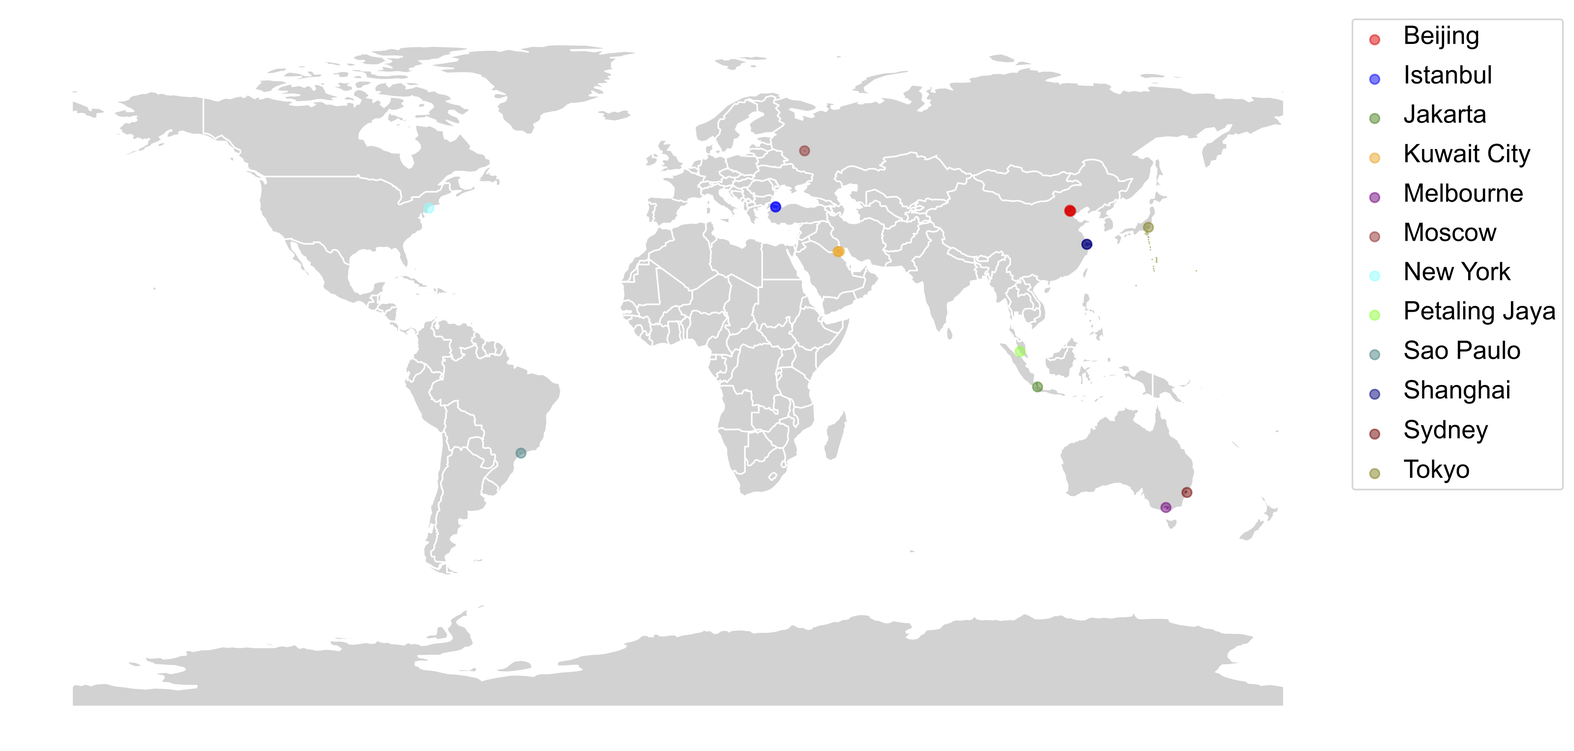
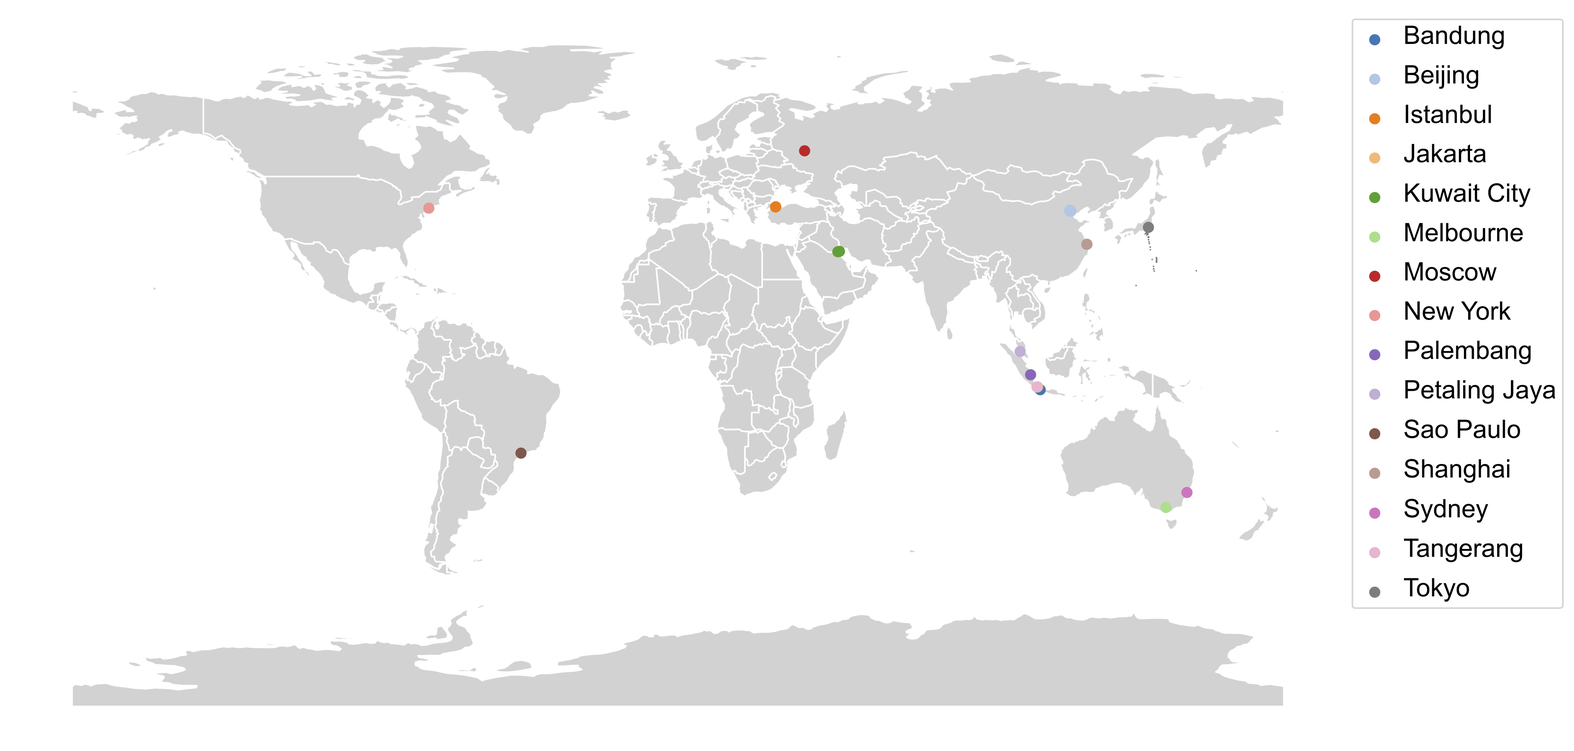
Added 3 Indonesian cities and UniMove baseline

diff --git a/README.md b/README.md
@@ -16,7 +16,7 @@
 
 ![Massive-STEPS](assets/world_map.png)
 
-**Massive-STEPS** is a large-scale dataset of semantic trajectories intended for understanding POI check-ins. The dataset is derived from the [Semantic Trails Dataset](https://github.com/D2KLab/semantic-trails) and [Foursquare Open Source Places](https://huggingface.co/datasets/foursquare/fsq-os-places), and includes check-in data from 12 cities across 10 countries. The dataset is designed to facilitate research in various domains, including trajectory prediction, POI recommendation, and urban modeling. Massive-STEPS emphasizes the importance of geographical diversity, scale, semantic richness, and reproducibility in trajectory datasets.
+**Massive-STEPS** is a large-scale dataset of semantic trajectories intended for understanding POI check-ins. The dataset is derived from the [Semantic Trails Dataset](https://github.com/D2KLab/semantic-trails) and [Foursquare Open Source Places](https://huggingface.co/datasets/foursquare/fsq-os-places), and includes check-in data from 15 cities across 10 countries. The dataset is designed to facilitate research in various domains, including trajectory prediction, POI recommendation, and urban modeling. Massive-STEPS emphasizes the importance of geographical diversity, scale, semantic richness, and reproducibility in trajectory datasets.
 
 ## 🔢 Dataset
 
@@ -24,20 +24,23 @@
 
 Massive-STEPS is available on [🤗 Datasets](https://huggingface.co/collections/CRUISEResearchGroup/massive-steps-point-of-interest-check-in-dataset-682716f625d74c2569bc7a73). You can download the preprocessed dataset of each city using the following links:
 
-| City            | Users | Trails | POIs  | Check-ins | #train | #val  | #test |                                          URL                                          |
-| --------------- | :---: | :----: | :---: | :-------: | :----: | :---: | :---: | :-----------------------------------------------------------------------------------: |
-| Beijing 🇨🇳       |  56   |  573   | 1127  |   1470    |  400   |  58   |  115  |    [🤗](https://huggingface.co/datasets/CRUISEResearchGroup/Massive-STEPS-Beijing/)    |
-| Istanbul 🇹🇷      | 23700 | 216411 | 53812 |  544471   | 151487 | 21641 | 43283 |   [🤗](https://huggingface.co/datasets/CRUISEResearchGroup/Massive-STEPS-Istanbul/)    |
-| Jakarta 🇮🇩       | 8336  | 137396 | 76116 |  412100   | 96176  | 13740 | 27480 |    [🤗](https://huggingface.co/datasets/CRUISEResearchGroup/Massive-STEPS-Jakarta/)    |
-| Kuwait City 🇰🇼   | 9628  | 91658  | 17180 |  232706   | 64160  | 9166  | 18332 |  [🤗](https://huggingface.co/datasets/CRUISEResearchGroup/Massive-STEPS-Kuwait-City/)  |
-| Melbourne 🇦🇺     |  646  |  7864  | 7699  |   22050   |  5504  |  787  | 1573  |   [🤗](https://huggingface.co/datasets/CRUISEResearchGroup/Massive-STEPS-Melbourne/)   |
-| Moscow 🇷🇺        | 3993  | 39485  | 17822 |  105620   | 27639  | 3949  | 7897  |    [🤗](https://huggingface.co/datasets/CRUISEResearchGroup/Massive-STEPS-Moscow/)     |
-| New York 🇺🇸      | 6929  | 92041  | 49218 |  272368   | 64428  | 9204  | 18409 |   [🤗](https://huggingface.co/datasets/CRUISEResearchGroup/Massive-STEPS-New-York/)    |
-| Petaling Jaya 🇲🇾 | 14308 | 180410 | 60158 |  506430   | 126287 | 18041 | 36082 | [🤗](https://huggingface.co/datasets/CRUISEResearchGroup/Massive-STEPS-Petaling-Jaya/) |
-| São Paulo 🇧🇷     | 5822  | 89689  | 38377 |  256824   | 62782  | 8969  | 17938 |   [🤗](https://huggingface.co/datasets/CRUISEResearchGroup/Massive-STEPS-Sao-Paulo/)   |
-| Shanghai 🇨🇳      |  296  |  3636  | 4462  |   10491   |  2544  |  364  |  728  |   [🤗](https://huggingface.co/datasets/CRUISEResearchGroup/Massive-STEPS-Shanghai/)    |
-| Sydney 🇦🇺        |  740  | 10148  | 8986  |   29900   |  7103  | 1015  | 2030  |    [🤗](https://huggingface.co/datasets/CRUISEResearchGroup/Massive-STEPS-Sydney/)     |
-| Tokyo 🇯🇵         |  764  |  5482  | 4725  |   13839   |  3836  |  549  | 1097  |     [🤗](https://huggingface.co/datasets/CRUISEResearchGroup/Massive-STEPS-Tokyo/)     |
+| City            | Users | Trails |  POIs  | Check-ins | #train  |  #val  | #test  |                                          URL                                          |
+| --------------- | :---: | :----: | :----: | :-------: | :-----: | :----: | :----: | :-----------------------------------------------------------------------------------: |
+| Bandung 🇮🇩       | 3,377 | 55,333 | 29,026 |  161,284  | 113,058 | 16,018 | 32,208 |    [🤗](https://huggingface.co/datasets/CRUISEResearchGroup/Massive-STEPS-Bandung/)    |
+| Beijing 🇨🇳       |  56   |  573   |  1127  |   1470    |   400   |   58   |  115   |    [🤗](https://huggingface.co/datasets/CRUISEResearchGroup/Massive-STEPS-Beijing/)    |
+| Istanbul 🇹🇷      | 23700 | 216411 | 53812  |  544471   | 151487  | 21641  | 43283  |   [🤗](https://huggingface.co/datasets/CRUISEResearchGroup/Massive-STEPS-Istanbul/)    |
+| Jakarta 🇮🇩       | 8336  | 137396 | 76116  |  412100   |  96176  | 13740  | 27480  |    [🤗](https://huggingface.co/datasets/CRUISEResearchGroup/Massive-STEPS-Jakarta/)    |
+| Kuwait City 🇰🇼   | 9628  | 91658  | 17180  |  232706   |  64160  |  9166  | 18332  |  [🤗](https://huggingface.co/datasets/CRUISEResearchGroup/Massive-STEPS-Kuwait-City/)  |
+| Melbourne 🇦🇺     |  646  |  7864  |  7699  |   22050   |  5504   |  787   |  1573  |   [🤗](https://huggingface.co/datasets/CRUISEResearchGroup/Massive-STEPS-Melbourne/)   |
+| Moscow 🇷🇺        | 3993  | 39485  | 17822  |  105620   |  27639  |  3949  |  7897  |    [🤗](https://huggingface.co/datasets/CRUISEResearchGroup/Massive-STEPS-Moscow/)     |
+| New York 🇺🇸      | 6929  | 92041  | 49218  |  272368   |  64428  |  9204  | 18409  |   [🤗](https://huggingface.co/datasets/CRUISEResearchGroup/Massive-STEPS-New-York/)    |
+| Palembang 🇮🇩     |  267  | 4,699  | 4,343  |  14,467   | 10,132  | 1,487  | 2,848  |   [🤗](https://huggingface.co/datasets/CRUISEResearchGroup/Massive-STEPS-Palembang/)   |
+| Petaling Jaya 🇲🇾 | 14308 | 180410 | 60158  |  506430   | 126287  | 18041  | 36082  | [🤗](https://huggingface.co/datasets/CRUISEResearchGroup/Massive-STEPS-Petaling-Jaya/) |
+| São Paulo 🇧🇷     | 5822  | 89689  | 38377  |  256824   |  62782  |  8969  | 17938  |   [🤗](https://huggingface.co/datasets/CRUISEResearchGroup/Massive-STEPS-Sao-Paulo/)   |
+| Shanghai 🇨🇳      |  296  |  3636  |  4462  |   10491   |  2544   |  364   |  728   |   [🤗](https://huggingface.co/datasets/CRUISEResearchGroup/Massive-STEPS-Shanghai/)    |
+| Sydney 🇦🇺        |  740  | 10148  |  8986  |   29900   |  7103   |  1015  |  2030  |    [🤗](https://huggingface.co/datasets/CRUISEResearchGroup/Massive-STEPS-Sydney/)     |
+| Tangerang 🇮🇩     | 1,437 | 15,984 | 12,956 |  45,521   | 32,085  | 4,499  | 8,937  |   [🤗](https://huggingface.co/datasets/CRUISEResearchGroup/Massive-STEPS-Tangerang/)   |
+| Tokyo 🇯🇵         |  764  |  5482  |  4725  |   13839   |  3836   |  549   |  1097  |     [🤗](https://huggingface.co/datasets/CRUISEResearchGroup/Massive-STEPS-Tokyo/)     |
 
 ### Dataset Construction
 
@@ -63,6 +66,40 @@ To reproduce the Massive-STEPS dataset, follow these steps:
    - The dataset will also be uploaded to Hugging Face Datasets with the specified dataset ID.
 
 ### End-to-End Examples
+
+<details>
+<summary>Bandung 🇮🇩</summary>
+
+#### Download Bandung GeoJSON
+
+```sql
+[out:json];
+relation(13290062);
+out geom;
+```
+
+#### Preprocess Bandung Dataset
+
+```sh
+python src/preprocess_std.py \
+    --std_2013_file semantic-trails/downloads/std_2013.csv \
+    --std_2018_file semantic-trails/downloads/std_2018.csv \
+    --cities_file semantic-trails/cities.csv \
+    --categories_file semantic-trails/categories.csv \
+    --city_geo_json_file data/bandung/bandung_13290062_overpass.geojson \
+    --output_dir data/bandung \
+    --output_file bandung_checkins.csv \
+    --min_checkins 2 --min_trails 3
+```
+
+#### Create Next POI Dataset
+
+```sh
+python src/create_next_poi_dataset.py \
+    --checkins_file data/bandung/beijing_checkins.csv \
+    --dataset_id CRUISEResearchGroup/Massive-STEPS-Bandung
+```
+</details>
 
 <details>
 <summary>Beijing 🇨🇳</summary>
@@ -344,6 +381,40 @@ python src/create_next_poi_dataset.py \
 </details>
 
 <details>
+<summary>Palembang 🇮🇩</summary>
+
+#### Download Palembang GeoJSON
+
+```sql
+[out:json];
+relation(10713145);
+out geom;
+```
+
+#### Preprocess Palembang Dataset
+
+```sh
+python src/preprocess_std.py \
+    --std_2013_file semantic-trails/downloads/std_2013.csv \
+    --std_2018_file semantic-trails/downloads/std_2018.csv \
+    --cities_file semantic-trails/cities.csv \
+    --categories_file semantic-trails/categories.csv \
+    --city_geo_json_file data/palembang/palembang_10713145_overpass.geojson \
+    --output_dir data/palembang \
+    --output_file palembang_checkins.csv \
+    --min_checkins 2 --min_trails 3
+```
+
+#### Create Next POI Dataset
+
+```sh
+python src/create_next_poi_dataset.py \
+    --checkins_file data/palembang/beijing_checkins.csv \
+    --dataset_id CRUISEResearchGroup/Massive-STEPS-Palembang
+```
+</details>
+
+<details>
 <summary>São Paulo 🇧🇷</summary>
 
 #### Download São Paulo GeoJSON
@@ -449,6 +520,40 @@ python src/create_next_poi_dataset.py \
 </details>
 
 <details>
+<summary>Tangerang 🇮🇩</summary>
+
+#### Download Tangerang GeoJSON
+
+```sql
+[out:json];
+relation(7641583);
+out geom;
+```
+
+#### Preprocess Tangerang Dataset
+
+```sh
+python src/preprocess_std.py \
+    --std_2013_file semantic-trails/downloads/std_2013.csv \
+    --std_2018_file semantic-trails/downloads/std_2018.csv \
+    --cities_file semantic-trails/cities.csv \
+    --categories_file semantic-trails/categories.csv \
+    --city_geo_json_file data/tangerang/tangerang_7641583_overpass.geojson \
+    --output_dir data/tangerang \
+    --output_file tangerang_checkins.csv \
+    --min_checkins 2 --min_trails 3
+```
+
+#### Create Next POI Dataset
+
+```sh
+python src/create_next_poi_dataset.py \
+    --checkins_file data/tangerang/beijing_checkins.csv \
+    --dataset_id CRUISEResearchGroup/Massive-STEPS-Tangerang
+```
+</details>
+
+<details>
 <summary>Tokyo 🇯🇵</summary>
 
 #### Download Tokyo GeoJSON
@@ -489,44 +594,45 @@ python src/create_next_poi_dataset.py \
 
 We also conducted extensive benchmarks on the Massive-STEPS dataset using various models for POI recommendation. The following table summarizes the results of our experiments, reported in Acc@1:
 
-| **Model**    | **Beijing** | **Istanbul** | **Jakarta** | **Kuwait City** | **Melbourne** | **Moscow** | **New York** | **Petaling Jaya** | **São Paulo** | **Shanghai** | **Sydney** | **Tokyo** |
-| ------------ | :---------: | :----------: | :---------: | :-------------: | :-----------: | :--------: | :----------: | :---------------: | :-----------: | :----------: | :--------: | :-------: |
-| **FPMC**     |    0.000    |    0.026     |    0.029    |      0.021      |     0.062     |   0.059    |    0.032     |       0.026       |     0.030     |    0.084     |   0.075    |   0.176   |
-| **RNN**      |    0.085    |    0.077     |    0.049    |      0.087      |     0.059     |   0.075    |    0.061     |       0.064       |     0.097     |    0.055     |   0.080    |   0.133   |
-| **LSTPM**    |    0.127    |    0.142     |    0.099    |      0.180      |     0.091     |   0.151    |    0.099     |       0.099       |     0.158     |    0.099     |   0.141    |   0.225   |
-| **DeepMove** |    0.106    |    0.150     |    0.103    |      0.179      |     0.083     |   0.143    |    0.097     |       0.112       |     0.160     |    0.085     |   0.129    |   0.201   |
-| **GETNext**  |    0.433    |    0.146     |    0.155    |      0.175      |     0.100     |   0.175    |    0.134     |       0.139       |     0.202     |    0.115     |   0.181    |   0.180   |
-| **STHGCN**   |  **0.453**  |  **0.241**   |  **0.197**  |    **0.225**    |   **0.168**   | **0.223**  |  **0.146**   |     **0.174**     |   **0.250**   |  **0.193**   | **0.227**  | **0.250** |
+| **Model**    | **Bandung** | **Beijing** | **Istanbul** | **Jakarta** | **Kuwait City** | **Melbourne** | **Moscow** | **New York** | **Palembang** | **Petaling Jaya** | **São Paulo** | **Shanghai** | **Sydney** | **Tangerang** | **Tokyo** |
+| ------------ | :---------: | :---------: | :----------: | :---------: | :-------------: | :-----------: | :--------: | :----------: | :-----------: | :---------------: | :-----------: | :----------: | :--------: | :-----------: | :-------: |
+| **FPMC**     |    0.048    |    0.000    |    0.026     |    0.029    |      0.021      |     0.062     |   0.059    |    0.032     |     0.102     |       0.026       |     0.030     |    0.084     |   0.075    |     0.104     |   0.176   |
+| **RNN**      |    0.062    |    0.085    |    0.077     |    0.049    |      0.087      |     0.059     |   0.075    |    0.061     |     0.049     |       0.064       |     0.097     |    0.055     |   0.080    |     0.087     |   0.133   |
+| **LSTPM**    |    0.110    |    0.127    |    0.142     |    0.099    |      0.180      |     0.091     |   0.151    |    0.099     |     0.114     |       0.099       |     0.158     |    0.099     |   0.141    |     0.154     |   0.225   |
+| **DeepMove** |    0.107    |    0.106    |    0.150     |    0.103    |      0.179      |     0.083     |   0.143    |    0.097     |     0.084     |       0.112       |     0.160     |    0.085     |   0.129    |     0.145     |   0.201   |
+| **GETNext**  |    0.179    |    0.433    |    0.146     |    0.155    |      0.175      |     0.100     |   0.175    |    0.134     |     0.158     |       0.139       |     0.202     |    0.115     |   0.181    |     0.224     |   0.180   |
+| **STHGCN**   |    0.219    |  **0.453**  |  **0.241**   |  **0.197**  |    **0.225**    |   **0.168**   | **0.223**  |  **0.146**   |   **0.246**   |     **0.174**     |   **0.250**   |  **0.193**   | **0.227**  |   **0.293**   | **0.250** |
+| **UniMove**  |    0.007    |    0.036    |    0.015     |    0.004    |      0.023      |     0.008     |   0.009    |    0.004     |     0.009     |       0.008       |     0.002     |    0.000     |   0.015    |     0.001     |   0.032   |
 
 ### Zero-shot POI Recommendation
 
 We also conducted zero-shot POI recommendation experiments on the Massive-STEPS dataset. The following table summarizes the results of our experiments, reported in Acc@1:
 
-| **Method**   | **Model**                               | **Beijing** | **Istanbul** | **Jakarta** | **Kuwait City** | **Melbourne** | **Moscow** | **New York** | **Petaling Jaya** | **São Paulo** | **Shanghai** | **Sydney** | **Tokyo** |
-| ------------ | --------------------------------------- | :---------: | :----------: | :---------: | :-------------: | :-----------: | :--------: | :----------: | :---------------: | :-----------: | :----------: | :--------: | :-------: |
-| **LLM-Mob**  | **gemini-2.0-flash**                    |    0.115    |    0.080     |    0.100    |      0.095      |     0.060     |   0.130    |    0.095     |       0.090       |     0.130     |    0.055     |   0.060    |   0.140   |
-|              | **Qwen2.5-7B-Instruct-AWQ**             |    0.058    |    0.035     |    0.105    |      0.080      |     0.030     |   0.090    |    0.070     |       0.030       |     0.090     |    0.040     |   0.035    |   0.110   |
-|              | **Meta-Llama-3.1-8B-Instruct-AWQ-INT4** |    0.000    |    0.020     |    0.055    |      0.030      |     0.010     |   0.030    |    0.025     |       0.010       |     0.030     |    0.005     |   0.020    |   0.005   |
-|              | **gemma-2-9b-it-AWQ-INT4**              |    0.115    |    0.075     |    0.105    |      0.080      |     0.055     |   0.100    |    0.070     |       0.055       |     0.085     |    0.050     |   0.030    |   0.145   |
-| **LLM-ZS**   | **gemini-2.0-flash**                    |    0.058    |    0.090     |    0.110    |      0.080      |     0.065     |   0.125    |    0.080     |       0.110       |     0.150     |    0.065     |   0.060    |   0.160   |
-|              | **Qwen2.5-7B-Instruct-AWQ**             |    0.038    |    0.040     |    0.065    |      0.050      |     0.040     |   0.080    |    0.050     |       0.045       |     0.095     |    0.045     |   0.045    |   0.120   |
-|              | **Meta-Llama-3.1-8B-Instruct-AWQ-INT4** |    0.077    |    0.040     |    0.045    |      0.060      |     0.040     |   0.080    |    0.055     |       0.030       |     0.030     |    0.060     |   0.040    |   0.110   |
-|              | **gemma-2-9b-it-AWQ-INT4**              |    0.096    |    0.045     |    0.105    |      0.070      |     0.050     |   0.080    |    0.075     |       0.065       |     0.075     |    0.050     |   0.045    |   0.110   |
-| **LLM-Move** | **gemini-2.0-flash**                    |    0.096    |  **0.205**   |  **0.295**  |    **0.220**    |   **0.225**   |   0.220    |  **0.235**   |     **0.210**     |   **0.285**   |  **0.170**   | **0.230**  | **0.250** |
-|              | **Qwen2.5-7B-Instruct-AWQ**             |  **0.192**  |    0.175     |    0.115    |      0.160      |     0.110     | **0.230**  |    0.120     |       0.135       |     0.155     |    0.095     |   0.125    | **0.250** |
-|              | **Meta-Llama-3.1-8B-Instruct-AWQ-INT4** |    0.058    |    0.015     |    0.015    |      0.010      |     0.040     |   0.005    |    0.035     |       0.040       |     0.045     |    0.020     |   0.055    |   0.030   |
-|              | **gemma-2-9b-it-AWQ-INT4**              |    0.096    |    0.100     |    0.235    |      0.120      |     0.115     |   0.110    |    0.115     |       0.175       |     0.195     |    0.105     |   0.125    |   0.130   |
+| **Method**   | **Model**                               | **Bandung** | **Beijing** | **Istanbul** | **Jakarta** | **Kuwait City** | **Melbourne** | **Moscow** | **New York** | **Palembang** | **Petaling Jaya** | **São Paulo** | **Shanghai** | **Sydney** | **Tangerang** | **Tokyo** |
+| ------------ | --------------------------------------- | :---------: | :---------: | :----------: | :---------: | :-------------: | :-----------: | :--------: | :----------: | :-----------: | :---------------: | :-----------: | :----------: | :--------: | :-----------: | :-------: |
+| **LLM-Mob**  | **gemini-2.0-flash**                    |    0.105    |    0.115    |    0.080     |    0.100    |      0.095      |     0.060     |   0.130    |    0.095     |     0.135     |       0.090       |     0.130     |    0.055     |   0.060    |     0.155     |   0.140   |
+|              | **Qwen2.5-7B-Instruct-AWQ**             |    0.060    |    0.058    |    0.035     |    0.105    |      0.080      |     0.030     |   0.090    |    0.070     |     0.075     |       0.030       |     0.090     |    0.040     |   0.035    |     0.095     |   0.110   |
+|              | **Meta-Llama-3.1-8B-Instruct-AWQ-INT4** |    0.010    |    0.000    |    0.020     |    0.055    |      0.030      |     0.010     |   0.030    |    0.025     |     0.005     |       0.010       |     0.030     |    0.005     |   0.020    |     0.020     |   0.005   |
+|              | **gemma-2-9b-it-AWQ-INT4**              |    0.070    |    0.115    |    0.075     |    0.105    |      0.080      |     0.055     |   0.100    |    0.070     |     0.095     |       0.055       |     0.085     |    0.050     |   0.030    |     0.145     |   0.145   |
+| **LLM-ZS**   | **gemini-2.0-flash**                    |    0.095    |    0.058    |    0.090     |    0.110    |      0.080      |     0.065     |   0.125    |    0.080     |     0.130     |       0.110       |     0.150     |    0.065     |   0.060    |     0.145     |   0.160   |
+|              | **Qwen2.5-7B-Instruct-AWQ**             |    0.055    |    0.038    |    0.040     |    0.065    |      0.050      |     0.040     |   0.080    |    0.050     |     0.050     |       0.045       |     0.095     |    0.045     |   0.045    |     0.100     |   0.120   |
+|              | **Meta-Llama-3.1-8B-Instruct-AWQ-INT4** |    0.045    |    0.077    |    0.040     |    0.045    |      0.060      |     0.040     |   0.080    |    0.055     |     0.070     |       0.030       |     0.030     |    0.060     |   0.040    |     0.080     |   0.110   |
+|              | **gemma-2-9b-it-AWQ-INT4**              |    0.065    |    0.096    |    0.045     |    0.105    |      0.070      |     0.050     |   0.080    |    0.075     |     0.060     |       0.065       |     0.075     |    0.050     |   0.045    |     0.100     |   0.110   |
+| **LLM-Move** | **gemini-2.0-flash**                    |  **0.225**  |    0.096    |  **0.205**   |  **0.295**  |    **0.220**    |   **0.225**   |   0.220    |  **0.235**   |   **0.260**   |     **0.210**     |   **0.285**   |  **0.170**   | **0.230**  |   **0.200**   | **0.250** |
+|              | **Qwen2.5-7B-Instruct-AWQ**             |    0.100    |  **0.192**  |    0.175     |    0.115    |      0.160      |     0.110     | **0.230**  |    0.120     |     0.130     |       0.135       |     0.155     |    0.095     |   0.125    |     0.175     | **0.250** |
+|              | **Meta-Llama-3.1-8B-Instruct-AWQ-INT4** |    0.030    |    0.058    |    0.015     |    0.015    |      0.010      |     0.040     |   0.005    |    0.035     |     0.010     |       0.040       |     0.045     |    0.020     |   0.055    |     0.000     |   0.030   |
+|              | **gemma-2-9b-it-AWQ-INT4**              |    0.175    |    0.096    |    0.100     |    0.235    |      0.120      |     0.115     |   0.110    |    0.115     |     0.210     |       0.175       |     0.195     |    0.105     |   0.125    |     0.125     |   0.130   |
 
 ### Spatiotemporal Classification and Reasoning
 
 We conducted spatiotemporal classification and reasoning experiments on the Massive-STEPS dataset. Specifically, we evaluated the zero-shot performance of LLMs to classify whether a check-in trajectory ended at a weekend (Saturday or Sunday) or a weekday (Monday to Friday). The following table summarizes the results of our experiments, reported in accuracy:
 
-| **Model**            | **Beijing** | **Istanbul** | **Jakarta** | **Kuwait City** | **Melbourne** | **Moscow** | **New York** | **Petaling Jaya** | **São Paulo** | **Shanghai** | **Sydney** | **Tokyo** |
-| -------------------- | :---------: | :----------: | :---------: | :-------------: | :-----------: | :--------: | :----------: | :---------------: | :-----------: | :----------: | :--------: | :-------: |
-| **gemini-2.0-flash** |    0.615    |  **0.715**   |  **0.650**  |    **0.765**    |   **0.635**   |   0.740    |  **0.610**   |     **0.610**     |   **0.730**   |  **0.600**   | **0.550**  |   0.510   |
-| **gpt-4o-mini**      |    0.538    |    0.610     |    0.610    |      0.430      |   **0.635**   | **0.745**  |    0.600     |       0.590       |     0.645     |    0.565     |   0.545    |   0.495   |
-| **gpt-4.1-mini**     |  **0.673**  |    0.615     |    0.600    |      0.690      |     0.585     | **0.745**  |    0.595     |       0.575       |     0.700     |    0.565     |   0.515    |   0.550   |
-| **gpt-5-nano**       |    0.635    |    0.535     |    0.530    |      0.470      |     0.500     |   0.635    |    0.580     |       0.565       |     0.680     |    0.465     |   0.440    | **0.580** |
+| **Model**            | **Bandung** | **Beijing** | **Istanbul** | **Jakarta** | **Kuwait City** | **Melbourne** | **Moscow** | **New York** | **Palembang** | **Petaling Jaya** | **São Paulo** | **Shanghai** | **Sydney** | **Tangerang** | **Tokyo** |
+| -------------------- | :---------: | :---------: | :----------: | :---------: | :-------------: | :-----------: | :--------: | :----------: | :-----------: | :---------------: | :-----------: | :----------: | :--------: | :-----------: | :-------: |
+| **gemini-2.0-flash** |  **0.635**  |    0.615    |  **0.715**   |  **0.650**  |    **0.765**    |   **0.635**   |   0.740    |  **0.620**   |   **0.670**   |     **0.610**     |   **0.730**   |  **0.600**   | **0.550**  |   **0.635**   |   0.510   |
+| **gpt-4o-mini**      |    0.625    |    0.538    |    0.610     |    0.610    |      0.430      |   **0.635**   | **0.745**  |    0.600     |     0.645     |       0.590       |     0.645     |    0.565     |   0.545    |     0.600     |   0.495   |
+| **gpt-4.1-mini**     |    0.585    |  **0.673**  |    0.615     |    0.600    |      0.690      |     0.585     | **0.745**  |    0.595     |     0.605     |       0.575       |     0.700     |    0.565     |   0.515    |     0.620     |   0.550   |
+| **gpt-5-nano**       |    0.570    |    0.635    |    0.535     |    0.530    |      0.470      |     0.500     |   0.635    |    0.580     |     0.560     |       0.565       |     0.680     |    0.465     |   0.440    |     0.520     | **0.580** |
 
 ## 🧪 Replicate Experiments
 
@@ -538,6 +644,7 @@ Our experiments rely on the following libraries:
 - [GETNext](https://github.com/songyangme/GETNext)
 - [STHGCN](https://github.com/alipay/Spatio-Temporal-Hypergraph-Model/)
 - [LibCity](https://github.com/LibCity/Bigscity-LibCity)
+- [UniMove](https://github.com/tsinghua-fib-lab/UniMove)
 
 To reproduce our experiments, clone this repository and its submodules:
 
@@ -547,7 +654,7 @@ cd Massive-STEPS
 git submodule update
 ```
 
-where the submodules are our forks of the original repositories with some modifications to support Massive-STEPS: [GETNext](https://github.com/w11wo/GETNext), [STHGCN](https://github.com/w11wo/Spatio-Temporal-Hypergraph-Model), and [LibCity](https://github.com/w11wo/Bigscity-LibCity). Each of the submodules has its own updated dependencies, as listed in their respective `requirements.txt` files.
+where the submodules are our forks of the original repositories with some modifications to support Massive-STEPS: [GETNext](https://github.com/w11wo/GETNext), [STHGCN](https://github.com/w11wo/Spatio-Temporal-Hypergraph-Model), [LibCity](https://github.com/w11wo/Bigscity-LibCity) and [UniMove](https://github.com/w11wo/UniMove). Each of the submodules has its own updated dependencies, as listed in their respective `requirements.txt` files.
 
 Because the submodules are not installed in the same directory as the main repository, we need to create a softlink for each submodule to point to the `data/` directory. You can do this by running the following commands:
 
@@ -634,6 +741,29 @@ This will run the STHGCN experiments on the specified city. The results will be 
 
 You can refer to `Spatio-Temporal-Hypergraph-Model/run_train.sh` for the full list of cities used in our experiments.
 
+#### UniMove
+
+To run the UniMove experiments, you can use the following command:
+
+```bash
+city=beijing # or istanbul, jakarta, etc.
+
+python preprocess_massive_steps.py --city $city
+
+python main.py \
+    --device cuda:0 \
+    --city $city \
+    --target_city $city \
+    --train_root traj_dataset/massive_steps/train \
+    --val_root traj_dataset/massive_steps/val \
+    --test_root traj_dataset/massive_steps/test \
+    --B 4
+```
+
+This will train UniMove from scratch on the specified city. The results will be saved in the `models/{city}/` directory.
+
+You can refer to `UniMove/run_train.sh` for the full list of cities used in our experiments.
+
 ### Zero-shot POI Recommendation
 
 To run a zero-shot POI recommendation experiment, you can use the following command:
@@ -692,6 +822,7 @@ Our work is based on the following repositories:
 - [GETNext](https://github.com/songyangme/GETNext)
 - [STHGCN](https://github.com/alipay/Spatio-Temporal-Hypergraph-Model/)
 - [LibCity](https://github.com/LibCity/Bigscity-LibCity)
+- [UniMove](https://github.com/tsinghua-fib-lab/UniMove)
 
 ## 🔖 Citation
 
